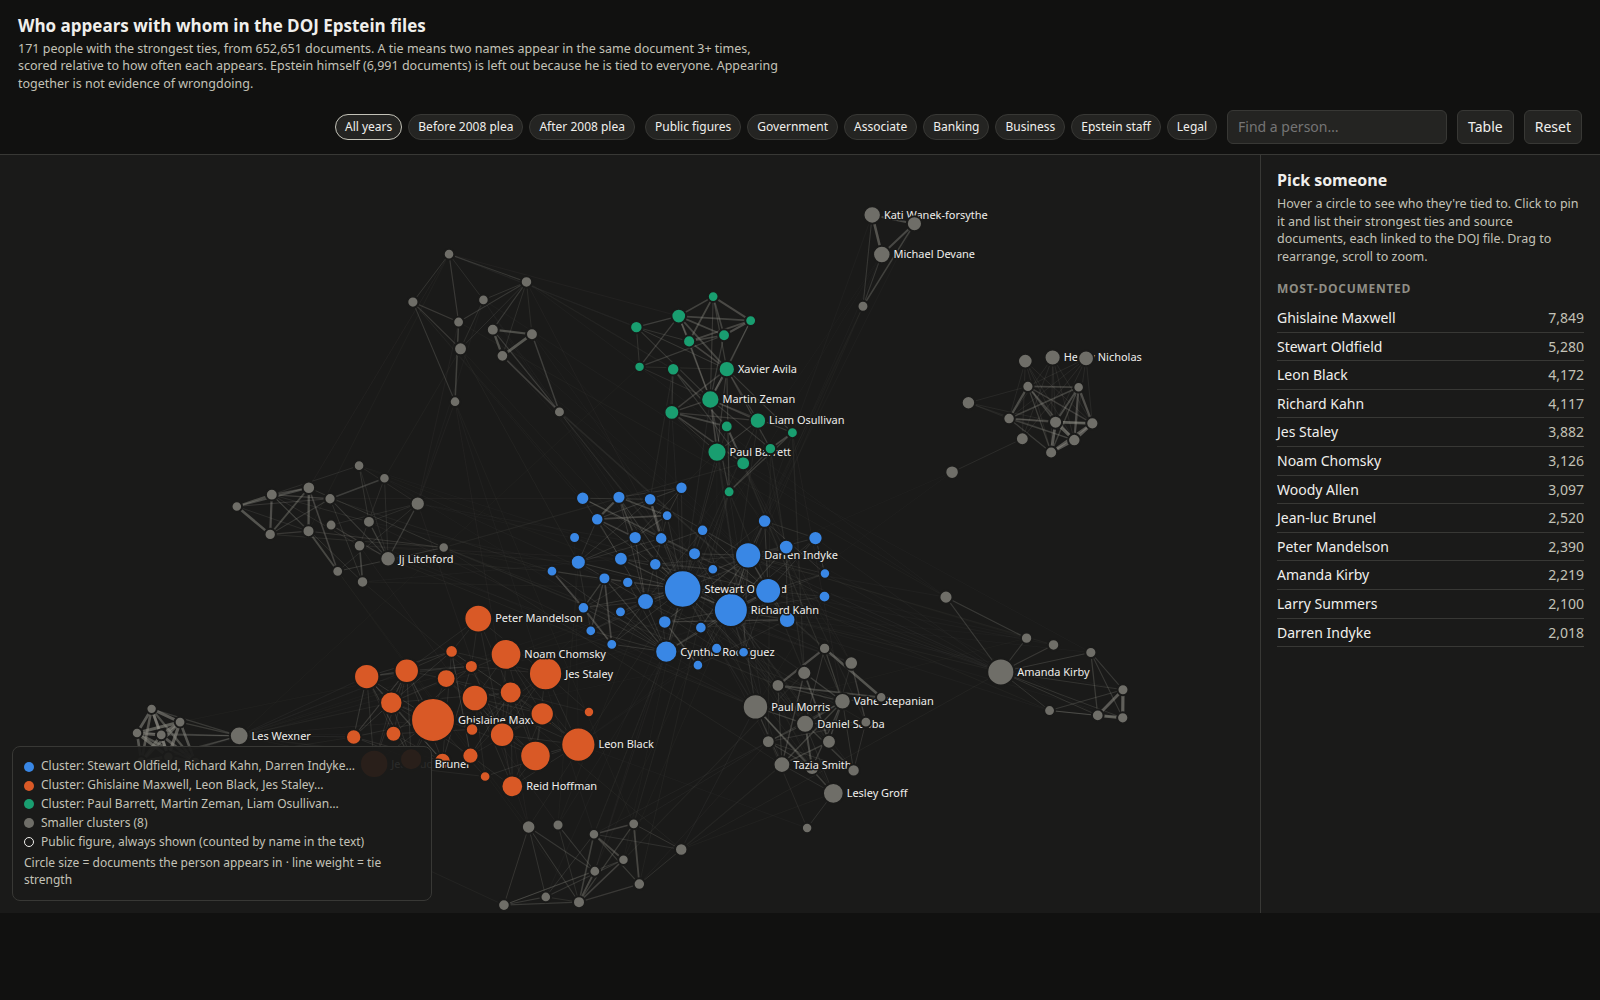
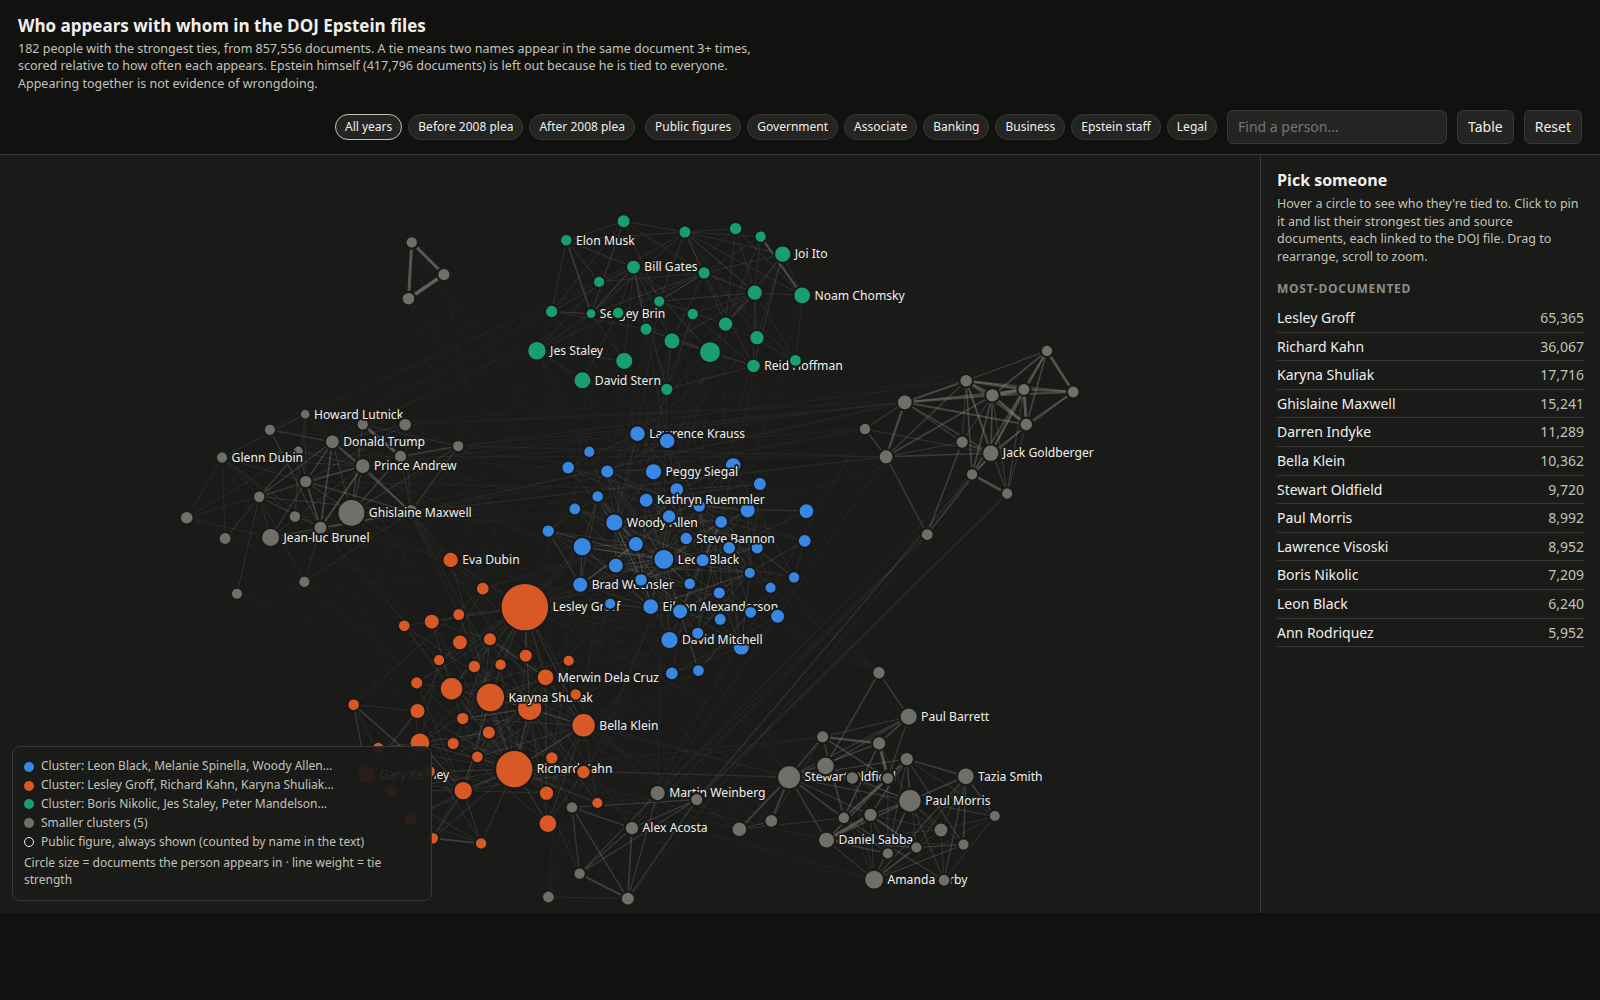
Rebuild map on full NER; clean up names
- Fold every Epstein variant into the hub ("jeffrey epstein sat", "defendant epstein", ...)
- Merge ~70 spelling and OCR variants (Shuliak, Visoski, Lefkowitz, Acosta, Maxwell, ...)
- Filter invoice, bank and building-maintenance fragments; NOT_NAMES for whole-phrase junk
- Refresh README screenshot

diff --git a/build_map.py b/build_map.py
@@ -88,7 +88,21 @@ charge charges handling remittance advice shipper reference airtime local succes
 package fuel debtor active signed number accciam equty buyout llp mellon bny pony civ material educational
 background amicus
 investors wireless cingular alpha express saver overnight pickup portfolio protection writing
-release pram performance strong secret island norther miaow sts delivery grantor""".split())
+release pram performance strong secret island norther miaow sts delivery grantor
+adobe acrobat reader sums aucun cas destinataire jabwcpa gmail kietzke miscellaneous assets cycle billing
+address bklyn nye cantot paid pald chedc decoded vin dir asst dividendyiel dfigures interests fedwire debit
+stat gift processing short-term lose fund bullish mxn peak possible bankruptcies watercraft flagler drive
+safekeepingor managementofthose stolen tambien ofrecemos rorkevon wachovia bk wholly owned subsidiary wkend
+steams card usvi crim evid
+conditioning waybills attested copy brillo chaseside ogb sprinkler confirm ansul certificate cir intell
+ck maintenance document dept rata okay slog sarkom trafficking weather gear lighter fluid daly resort holdings
+begin""".split())
+# Whole names that are not people but whose words can be (Long, Short, Charles...).
+NOT_NAMES = {"long term", "short term", "dam conan", "dom conan", "dole conan", "dole certain", "james ce",
+             "jp morgan", "j.p. morga", "j.p. morgan tr", "charles de gaulle", "beyond center", "mau mum",
+             "na fl", "new yak", "off peak", "oprime el", "fon myers", "fort walton", "florida keys",
+             "con ed", "pon st joe", "fon walton", "fort myers", "j.p morgan", "jpmorgan pryor", "john wayne",
+             "parry slog", "pro rata"}
 SUFFIX = re.compile(r"(\s+(subject|sent|cc|to|from|wrote|re)\b.*$)|(/.*$)|(\s*<.*$)")
 
 
@@ -108,11 +122,35 @@ ALIASES.update({"leslie wexner": "les wexner", "liam o'sullivan": "liam osulliva
                 "brad gillin": "bradley gillin", "stew oldfield": "stewart oldfield",
                 "paul morns": "paul morris",
                 "abigail wenxer": "abigail wexner", "jeanie brennan": "jeanne brennan",
-                "andersson dubin": "eva andersson dubin", "dave rodgers": "david rodgers",
+                "andersson dubin": "eva dubin", "dave rodgers": "david rodgers",
                 "tracy calvin dunlap": "tracy dunlap", "e. epstein": "jeffrey epstein",
                 "carlo plajo-biroll": "carlo pirzio-biroli",
                 "carlo pinio-biroll": "carlo pirzio-biroli", "darren lndyke": "darren indyke",
-                "erika kellerhai": "erika kellerhals"})
+                "erika kellerhai": "erika kellerhals",
+                "alexander acosta": "alex acosta", "r. alexander acosta": "alex acosta",
+                "bradley edwards": "brad edwards", "jean luc": "jean-luc brunel", "jean luc brunel": "jean-luc brunel",
+                "david stem": "david stern", "gary kemey": "gary kerney", "icaryna shuliak": "karyna shuliak",
+                "icatyna shuliak": "karyna shuliak", "karina shuliak": "karyna shuliak",
+                "jack alan goldberger": "jack goldberger", "kathy ruemmler": "kathryn ruemmler",
+                "lany visoski": "lawrence visoski", "larry visoski larry": "lawrence visoski",
+                "larry visoski": "lawrence visoski", "larry delson": "lawrence delson",
+                "rich barnett": "richard barnett", "steve hanson": "stephen hanson",
+                "david mitchell mitchell": "david mitchell", "a. de rothschild": "ariane de rothschild",
+                "bamaby marsh": "barnaby marsh", "bin sulayem": "sultan bin sulayem",
+                "eva andersson dubin": "eva dubin", "g. max": "ghislaine maxwell", "g. maxwell": "ghislaine maxwell",
+                "ghlslaine maxwell": "ghislaine maxwell", "ghlslalne maxwell": "ghislaine maxwell",
+                "a. marie villafafia": "marie villafana", "a. marie villafana": "marie villafana",
+                "barry krisher": "barry krischer", "jay letkowitz": "jay lefkowitz", "ja lefkowitz": "jay lefkowitz",
+                "daniel zwim": "daniel zwirn", "kenneth starr": "ken starr", "jeffrey sloman": "jeff sloman",
+                "detective recarey": "joseph recarey", "thomas pritzker": "tom pritzker",
+                "lilly ann sanchez": "ann sanchez", "mark lawrence epstein": "mark epstein",
+                "merwin dela": "merwin dela cruz", "dela cruz": "merwin dela cruz",
+                "joichi ito": "joi ito", "karin shuliak": "karyna shuliak", "mort zuckerman": "mortimer zuckerman",
+                "ariane de rothschild le": "ariane de rothschild", "jay lefkowite": "jay lefkowitz",
+                "jay leflcowitz": "jay lefkowitz", "joe recarey": "joseph recarey", "lili ann sanchez": "ann sanchez",
+                "bob josephsberg": "robert josefsberg", "honorable r. alexander acosta": "alex acosta",
+                "ms maxwell": "ghislaine maxwell", "martin golick yes": "martin golick",
+                "jeffrey epste": "jeffrey epstein"})
 
 
 def resolve(n):
@@ -135,6 +173,10 @@ def _clean(name):
     if n in ALIASES:
         return ALIASES[n]
     toks = n.split()
+    if n in NOT_NAMES:
+        return None
+    if "epstein" in toks and toks[0] != "mark":       # "jeffrey epstein sat", "defendant epstein", ...
+        return HUB
     if not (2 <= len(toks) <= 4) or len(n) > 40 or re.search(r"[0-9@#$%&*=+|\\]", n):
         return None
     if any(t in JUNK_WORDS for t in toks) or any(len(t.strip(".")) < 2 and not t.endswith(".") for t in toks):
